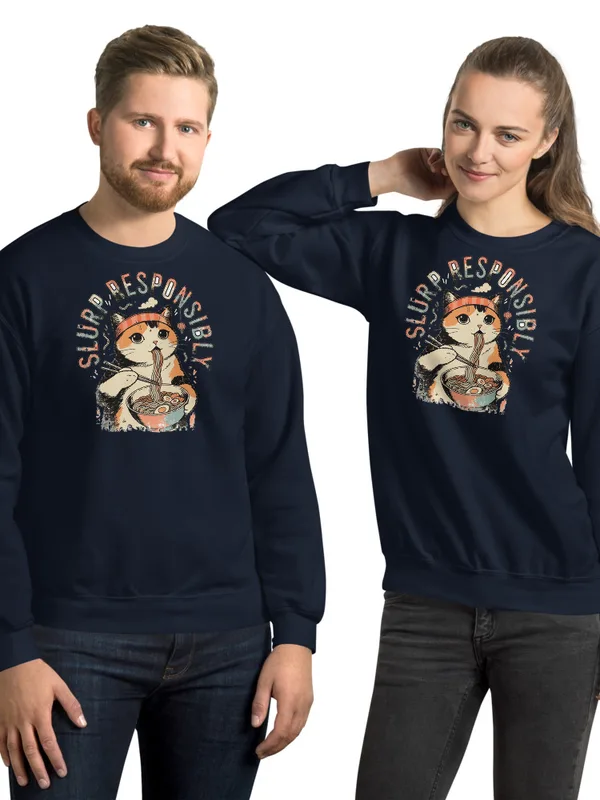
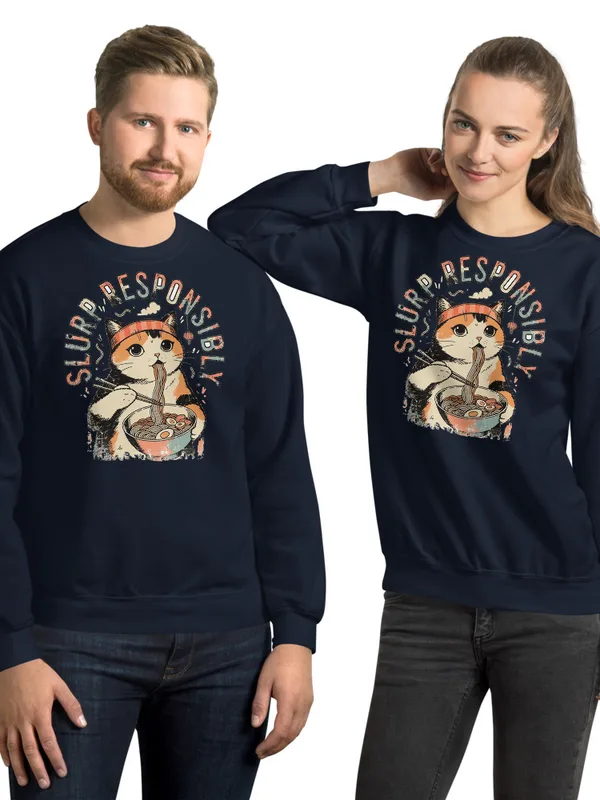
[B] review 350 Slurp Responsibly crewneck redo (FW 1650)

Changed region(s): [[0.09, 0.3438, 0.39, 0.5938], [0.66, 0.3125, 0.93, 0.5625]]

diff --git a/docs/intake-log.md b/docs/intake-log.md
@@ -1,4 +1,5 @@
 RUNNING lane B since 2026-10-17 06:27 UTC
+2026-10-17 06:55 UTC — [B] REVIEW #350 Slurp Responsibly crewneck (REDO: FW 1650, new mockups + temp cover)
 2026-10-17 06:21 UTC — [D] Director run 18: 9 REVIEW items. 3 LIVE (ACTIVE + Online Store + Headless + Google, audit --handle PASS, pages 200): #210 Ski Lodge hoodie (temp cover KEEP), #353 Plot Twist hoodie (KEEP), #355 Leg Day Survivor heavyweight (SWAP, drawcords over the joke). 6 REDO, none need fal: #345 Amazing Grace crewneck (script too small, FW 1800), #347 Espresso Yourself hoodie (cream letters vanish on Sand/Sport Grey; FW 1200), #350 #351 #352 crewnecks at FW 1400 (floor 1500; crewnecks go to 1650), #354 Lake Life zip (unisex with a man-only cover; Ash + Sport Grey look like one color). Recurring (4 more under-width twins): builder card step 7c + R5.3.2 line, twins set their own FW. Queue: 16 briefs #356-#371, registry 547-562 (lane B 12: rodeo hoodie, flower, volleyball, alien, racing 5,400/32, grandpa sweatshirt, baseball, national park, soccer, skull, beach, car hoodie; lane A 4 cold-weather: lucky hoodie, cactus hoodie, mountain hoodie, sunflower hoodie). RankHero has no unclaimed KD ≤ 20 hoodie/sweatshirt phrase left (~170 measured this run), so this is the KD 21–40 band, highest volume first. Twins of Saturday Night Rodeo, Lucky Horseshoe and Desert Bloom need one frameless redraw (boxed poster / arch), so they wait on fal as ART-NEXT like the new art. thanksgiving-shirts collection copy + FAQs rewritten (still said $29.99, described 2 of 17 tees). Lane READY: A 12, B 12. Telegram: 1 ping. Lock released.
 2026-10-17 06:22 UTC — [A] Builder run summary (temp-cover mode, no fal calls): REVIEW: #210 Ski Lodge hoodie (the red 'Christmas' script was still in the uploaded file; erased in the real print, new Printful file 1088063844, re-linked 12/12, new mockups + cover), #345 Women's Amazing Grace crewneck (Navy + Maroon; cream art vanishes on Sand), #347 Women's Espresso Yourself hoodie (Sand + Sport Grey; cream letters faint on Sand), #348 Midnight Showing crewneck (BRIEF MISMATCH: #227's live art is Midnight Showing, not the Night Shift VHS gag, so title/handle/copy follow the real art; director confirm), #349 Women's Howdy crewneck. Skipped: #346 Casserole Ministry hoodie (MINISTRY is a condensed even-spaced font, needs a hand re-letter = fal), REDO #205 #216 #217 #219 #221 #237 #239 #244-246 #251-258 (re-letter/redraw or waiting on #244/#251/#255/#257), READY #274 #276 #280 #284 #319 (new art / re-letter). Compare-at cleared on 5 live products (womens-thanksgiving-gobble-gobble crewneck, turkey-day-crew crewneck, sleigh-queen crewneck, nap-queen crewneck, mash-hour crewneck); the price chore stopped there: the permission checker denied the next batch (modify shared resources), 43 holiday products still carry a compare-at (95 audit price errors in all). Fixed a covers.ts apostrophe build break I pushed in the #348 commit (main was broken about 3 minutes). Print files for this run live on branch lane-a-files (f/210c, 345, 347, 348, 349, logo-cream). Lock released.
 RUNNING director since 2026-10-17 06:11 UTC

diff --git a/docs/pipeline/350-anime-crewneck-slurp-responsibly.md b/docs/pipeline/350-anime-crewneck-slurp-responsibly.md
@@ -1,4 +1,4 @@
-status: REDO
+status: REVIEW
 cover: temp
 lane: B
 type: twin
@@ -26,3 +26,4 @@ kd: 27
 - 2026-10-17 06:13 UTC director: REDO (stays DRAFT, no fal needed).
   1. R5.3.2: FW 1400 is under the 1500 floor for sweatshirts; on the crewneck mockups the print covers barely a third of the chest. A crewneck has no pouch, so re-link at FW 1650 (TOP 0), 12/12.
   2. New Sand + Navy mockups, variant images and couple's temp cover from the wider print, then REVIEW. Art, colors, copy and keyword are approved as they are.
+- 2026-10-17 06:55 UTC [B]: REDO done. Re-linked file 1087188286 at FW 1650 TOP 0 (crewneck floor, 7c), 12/12 synced. New Sand + Navy + back mockups, variant images swapped (old media deleted), couple's temp cover regenerated (alt starts 'Man and woman'). Phone-size read: SLURP RESPONSIBLY legible. Audit: only the draft-state error. -> REVIEW.
